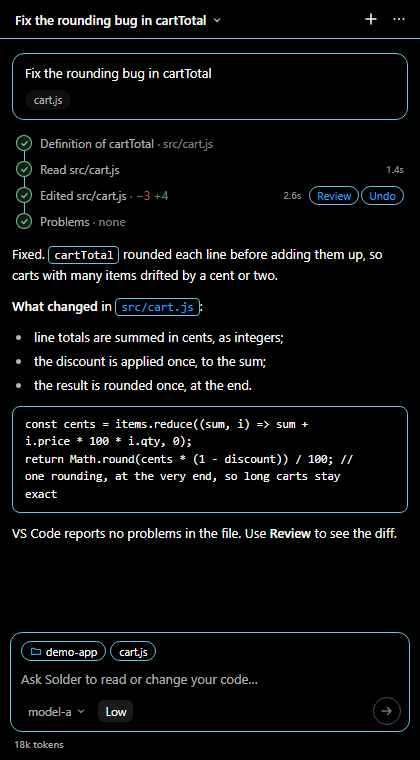
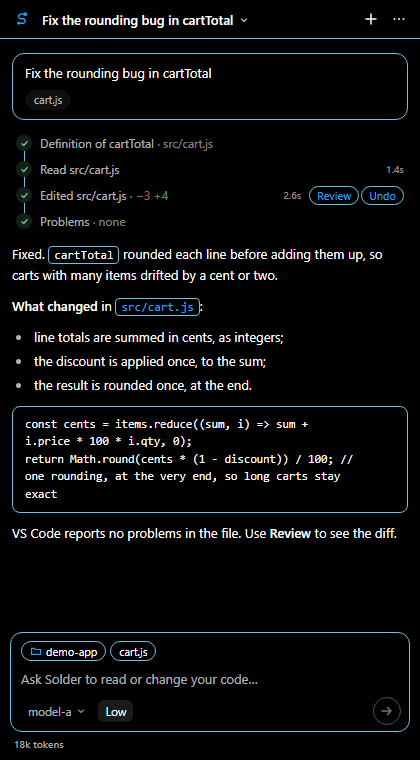
Panel: the chosen refresh, with the best of the other four
The user picked Opus's refresh as the base (fast-forwarded from gui-opus) and asked
for three pieces from the others:
- Solder's mark in the header bar, in the theme's link colour (from Astra);
- the welcome's keyboard hint (from Fable; Opus's logo already draws itself in);
- a QUEUED label on messages waiting for the next step (from Astra);
- your messages carry a tint of the theme's accent fading left to right, so they read
  apart from code blocks (from Fable).
Colours still come only from the VS Code theme (no colour literals), checked in dark,
light and high contrast. Screenshots retaken.

Changed region(s): [[0.031, 0.0, 0.5571, 0.0605], [0.031, 0.1816, 0.0929, 0.3026]]

diff --git a/media/panel.css b/media/panel.css
@@ -68,6 +68,8 @@ svg circle { fill: currentColor; stroke: none; }
 
 /* ---- top bar ---- */
 .bar { position: relative; display: flex; align-items: center; gap: 4px; padding: 6px 8px 6px 8px; border-bottom: 1px solid var(--hairline); }
+.bar > .brand { flex: none; width: 18px; height: 18px; margin: 0 0 0 5px; color: var(--link); stroke-width: 1.8; }
+.bar > .brand .hollow { fill: none; stroke: currentColor; }
 .title { flex: 1; min-width: 0; display: flex; align-items: center; gap: 5px; text-align: left; padding: 4px 7px; border-radius: var(--r-sm);
   font-weight: 600; letter-spacing: -0.005em; transition: background var(--t-fast) ease; }
 .title:hover { background: var(--hover); }
@@ -127,6 +129,8 @@ svg circle { fill: currentColor; stroke: none; }
 .welcome .lead { margin: 0; max-width: 300px; }
 .welcome .actions { display: flex; gap: 8px; margin-top: 16px; flex-wrap: wrap; justify-content: center; }
 .welcome .aside { margin-top: 16px; font-size: 0.9em; }
+.welcome .hint { margin: 18px 0 0; font-size: 0.86em; opacity: 0.85; }
+.welcome .hint kbd { font-family: inherit; font-size: 0.95em; padding: 0 5px; border-radius: 4px; border: 1px solid var(--line); background: var(--raised); }
 .logo { position: relative; width: 64px; height: 64px; display: grid; place-items: center; border-radius: 18px; color: var(--link);
   background: linear-gradient(160deg, color-mix(in srgb, var(--link) 16%, var(--bg)), color-mix(in srgb, var(--link) 5%, var(--bg)));
   border: 1px solid var(--vscode-contrastBorder, color-mix(in srgb, var(--link) 26%, transparent));
@@ -149,6 +153,7 @@ svg circle { fill: currentColor; stroke: none; }
 .welcome.enter :is(h2, .lead, .actions, .aside) { animation: rise var(--t-slow) var(--ease) both; animation-delay: calc(var(--age, 0ms) + 140ms); }
 .welcome.enter .lead { animation-delay: calc(var(--age, 0ms) + 190ms); }
 .welcome.enter :is(.actions, .aside) { animation-delay: calc(var(--age, 0ms) + 240ms); }
+.welcome.enter .hint { animation: rise var(--t-slow) var(--ease) both; animation-delay: calc(var(--age, 0ms) + 410ms); }
 .welcome.enter .features li { animation: rise var(--t-slow) var(--ease) both; animation-delay: calc(var(--age, 0ms) + 260ms); }
 .welcome.enter .features li:nth-child(2) { animation-delay: calc(var(--age, 0ms) + 310ms); }
 .welcome.enter .features li:nth-child(3) { animation-delay: calc(var(--age, 0ms) + 360ms); }
@@ -164,7 +169,8 @@ svg circle { fill: currentColor; stroke: none; }
 .link-button:active:not([disabled]) { transform: scale(0.97); }
 
 /* messages */
-.user { position: relative; margin: 20px 0 10px; padding: 9px 12px; border-radius: var(--r-lg); background: var(--raised); border: 1px solid var(--hairline);
+.user { position: relative; margin: 20px 0 10px; padding: 9px 12px; border-radius: var(--r-lg); border: 1px solid var(--hairline);
+  background: linear-gradient(135deg, color-mix(in srgb, var(--accent) 16%, transparent), transparent 62%), var(--raised);
   white-space: pre-wrap; word-wrap: break-word; line-height: 1.5; }
 .user:first-child { margin-top: 2px; }
 .user .chips { margin-top: 7px; }
@@ -236,6 +242,8 @@ body.vscode-high-contrast .status .what { background: none; color: var(--fg); an
 
 /* queued: typed while it works, waiting for the next step */
 .user.queued { background: none; border: 1px dashed var(--line); color: var(--muted); }
+.user.queued::before { content: "Queued"; display: block; margin-bottom: 4px; color: var(--link); font-size: 0.72em; font-weight: 600;
+  letter-spacing: 0.12em; text-transform: uppercase; font-style: normal; }
 .user.queued.enter { animation: rise var(--t-slow) var(--ease) both; animation-delay: var(--age, 0ms); }
 .user .queued-note { display: flex; align-items: center; gap: 6px; margin-top: 5px; font-size: 0.82em; font-style: italic; }
 .user .queued-note svg { width: 12px; height: 12px; opacity: 0.8; }

diff --git a/media/panel.html b/media/panel.html
@@ -9,6 +9,7 @@
 </head>
 <body>
 <header class="bar">
+  <svg class="brand" viewBox="0 0 24 24" aria-hidden="true"><path d="M16.3 5.5H9.6L7.4 7.7v1.8l2.2 2.2h4.6l2.2 2.2v1.6l-2.2 2.2H7.7"/><circle class="hollow" cx="16.4" cy="5.5" r="1.7"/><circle cx="7.6" cy="17.7" r="1.9"/></svg>
   <button id="chat-title" class="title" title="Your chats" aria-haspopup="menu" aria-expanded="false"><span id="chat-title-text">New chat</span><svg class="chev" viewBox="0 0 16 16" aria-hidden="true"><path d="M4.5 6.5 8 10l3.5-3.5"/></svg></button>
   <div class="bar-actions">
     <button id="btn-new" class="icon" title="New chat" aria-label="New chat"><svg viewBox="0 0 16 16"><path d="M8 3v10M3 8h10"/></svg></button>

diff --git a/media/panel.js b/media/panel.js
@@ -400,7 +400,8 @@
       feature(ICONS.search, "<b>Reads and searches</b> your workspace") +
       feature(ICONS.edit, "<b>Edits</b>, then checks for problems") +
       feature(ICONS.undo, "<b>Every change</b> can be reviewed and undone") + "</ul>" +
-      (state.workspace ? "" : `<p class="aside">Open a folder first: Solder works inside a workspace.</p>`) + "</div>";
+      (state.workspace ? `<p class="hint"><kbd>Enter</kbd> sends, <kbd>Shift</kbd>+<kbd>Enter</kbd> adds a line.</p>`
+        : `<p class="aside">Open a folder first: Solder works inside a workspace.</p>`) + "</div>";
   }
 
   let shownApprovals = "";
